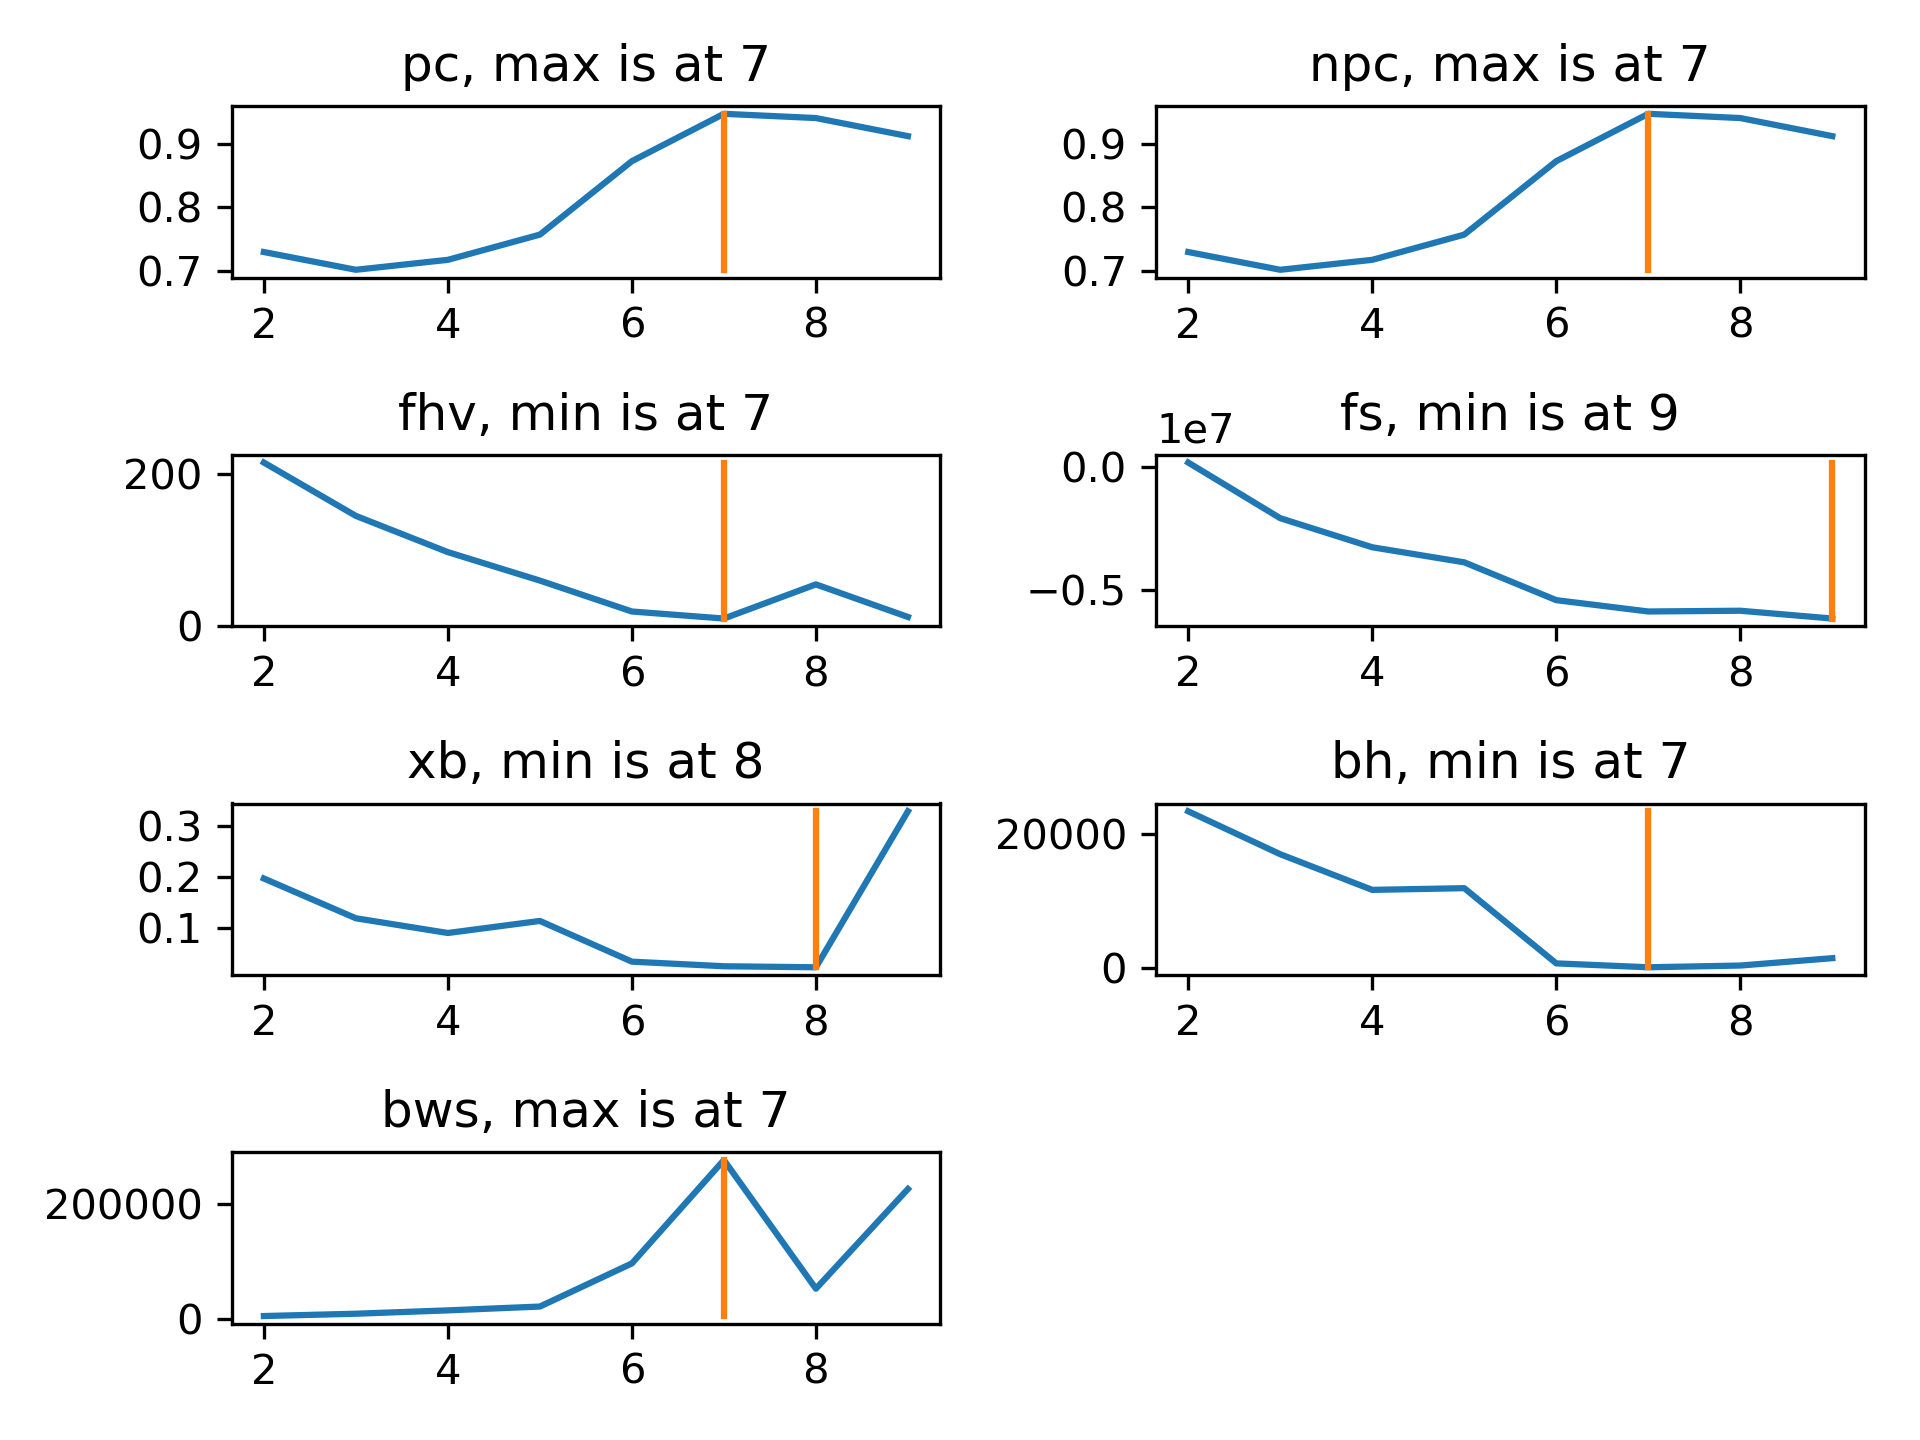
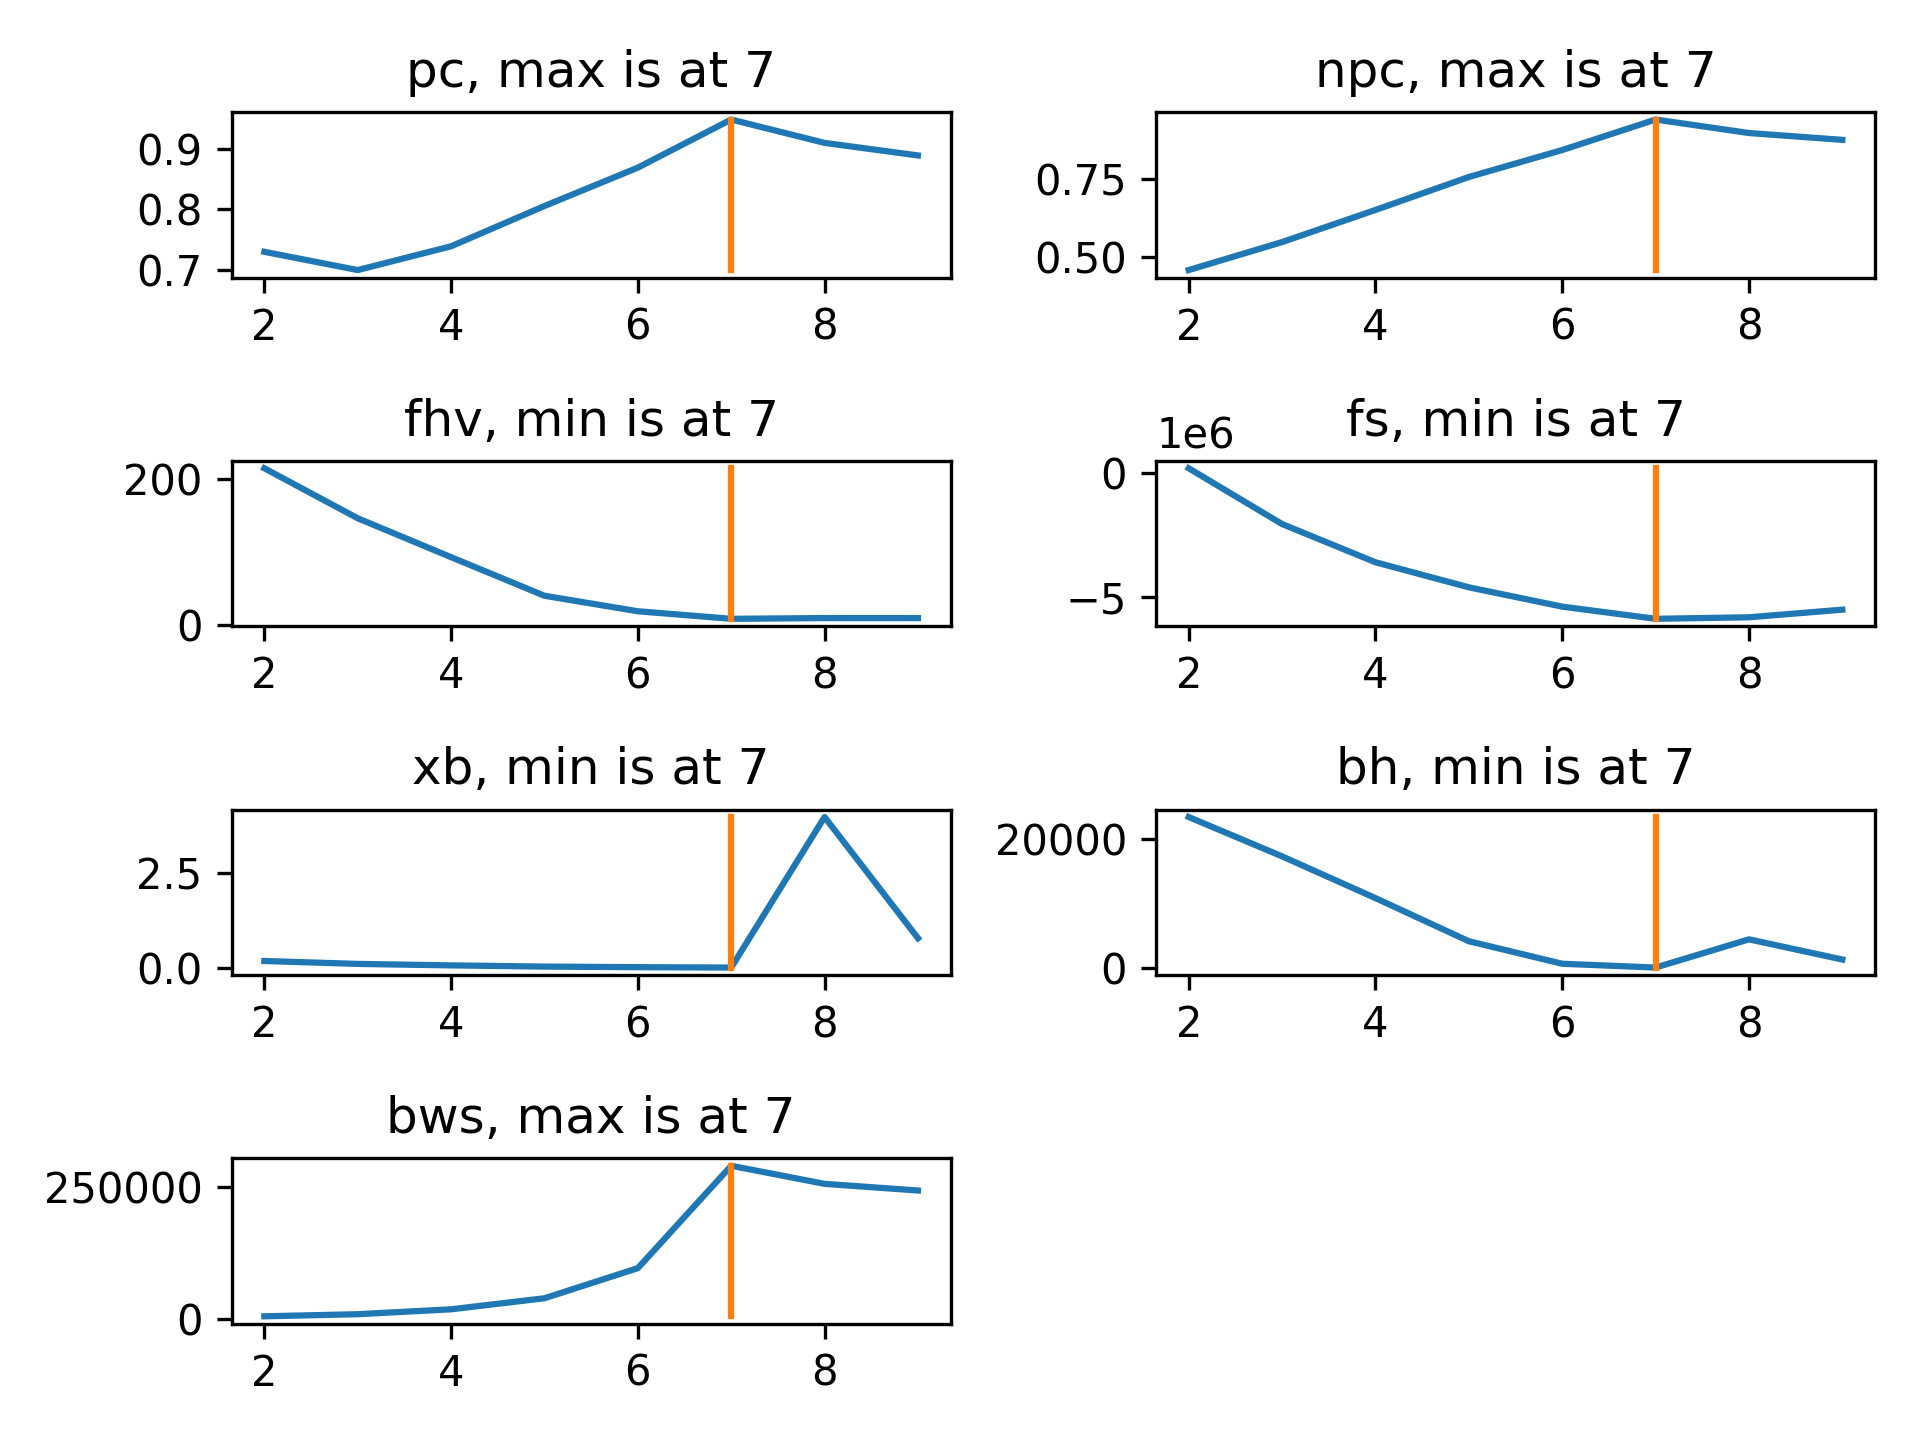
Fix switched number of clusters and number of data points in npc function

diff --git a/cvi.py b/cvi.py
@@ -7,7 +7,7 @@ def pairwise_squared_distances(A, B):
 def calculate_covariances(x, u, v, m):
     c, n = u.shape
     d = v.shape[1]
-    
+
     um = u**m
 
     covariances = np.zeros((c, d, d))
@@ -16,7 +16,7 @@ def calculate_covariances(x, u, v, m):
         xv = x - v[i]
         uxv = um[i, :, np.newaxis]*xv
         covariances[i] = np.einsum('ni,nj->ij', uxv, xv)/np.sum(um[i])
-    
+
     return covariances
 
 def pc(x, u, v, m):
@@ -24,7 +24,7 @@ def pc(x, u, v, m):
     return np.square(u).sum()/n
 
 def npc(x, u, v, m):
-    n, c = u.shape
+    c, n = u.shape
     return 1 - c/(c - 1)*(1 - pc(x, u, v, m))
 
 def fhv(x, u, v, m):
@@ -40,7 +40,7 @@ def fs(x, u, v, m):
     v_mean = v.mean(axis=0)
 
     d2 = pairwise_squared_distances(x, v)
-    
+
     distance_v_mean_squared = np.linalg.norm(v - v_mean, axis=1, keepdims=True)**2
 
     return np.sum(um.T*d2) - np.sum(um*distance_v_mean_squared)
@@ -50,10 +50,10 @@ def xb(x, u, v, m):
     c = v.shape[0]
 
     um = u**m
-    
+
     d2 = pairwise_squared_distances(x, v)
     v2 = pairwise_squared_distances(v, v)
-    
+
     v2[v2 == 0.0] = np.inf
 
     return np.sum(um.T*d2)/(n*np.min(v2))
@@ -64,7 +64,7 @@ def bh(x, u, v, m):
 
     d2 = pairwise_squared_distances(x, v)
     v2 = pairwise_squared_distances(v, v)
-    
+
     v2[v2 == 0.0] = np.inf
 
     V = np.sum(u*d2.T, axis=1)/np.sum(u, axis=1)
